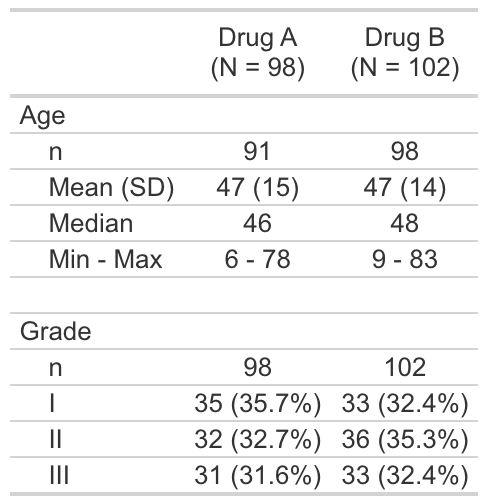
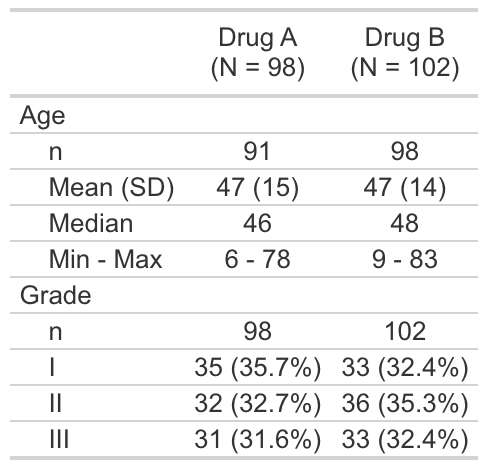
`tbl_listing()` Updates

Changed region(s): [[0.0, 0.0, 0.9836, 0.9872]]

diff --git a/tests/testthat/_snaps/tbl_listing.md b/tests/testthat/_snaps/tbl_listing.md
@@ -21,11 +21,11 @@
       w_duplicated_keys$table_body[seq(3), ]
     Output
       # A tibble: 3 x 4
-        trt        age marker stage
-        <chr>    <dbl>  <dbl> <fct>
-      1 "Drug B"     9  1.11  T2   
-      2 ""          49  0.157 T2   
-      3 "Drug A"    NA  2.07  T3   
+        trt      age marker stage
+        <chr>  <dbl>  <dbl> <fct>
+      1 Drug B     9  1.11  T2   
+      2 <NA>      49  0.157 T2   
+      3 Drug A    NA  2.07  T3   
 
 ---
 
@@ -39,7 +39,7 @@
       2 Drug B    49  0.157 T2   
       3 Drug A    NA  2.07  T3   
 
-# tbl_listing(blank_rows_by) works with standard values
+# tbl_listing(add_blanks_rows) works with standard values
 
     Code
       dplyr::slice_head(out$table_body, n = 5)
@@ -53,7 +53,7 @@
       4 <NA>      NA NA     <NA> 
       5 Drug A    NA  2.07  T3   
 
-# tbl_listing(row_split) works with standard values
+# tbl_listing(split_by_rows) works with standard values
 
     Code
       out[[2]]$table_body
@@ -63,7 +63,7 @@
         <chr>  <dbl>  <dbl> <fct>      <int>
       1 Drug A    NA   2.07 T3             3
 
-# tbl_listing(row_split, blank_rows_by) works with standard values
+# tbl_listing(split_by_rows, add_blank_rows) works with standard values
 
     Code
       dplyr::slice_head(out[[3]]$table_body, n = 4)
@@ -71,34 +71,35 @@
       # A tibble: 4 x 5
         trt      age marker stage row_number
         <chr>  <dbl>  <dbl> <fct>      <int>
-      1 Drug A    NA  2.07  T3             4
-      2 Drug A    78  0.175 T3             5
-      3 <NA>      NA NA     <NA>           6
-      4 Drug B    34  0.205 T3             7
+      1 Drug A    78  0.175 T3             4
+      2 Drug B    34  0.205 T3             5
+      3 Drug B    63  0.06  T3             6
+      4 <NA>      NA NA     <NA>          NA
 
-# tbl_listing(col_split) works with standard values
+# tbl_listing(split_by_columns) works with standard values
 
     Code
       dplyr::slice_head(out[[2]]$table_body, n = 4)
     Output
       # A tibble: 4 x 4
-        trt        age marker stage
-        <chr>    <dbl>  <dbl> <fct>
-      1 "Drug B"     9  1.11  T2   
-      2 ""          49  0.157 T2   
-      3 "Drug A"    NA  2.07  T3   
-      4 ""          78  0.175 T3   
+        trt      age marker stage
+        <chr>  <dbl>  <dbl> <fct>
+      1 Drug B     9  1.11  T2   
+      2 <NA>      49  0.157 T2   
+      3 Drug A    NA  2.07  T3   
+      4 <NA>      78  0.175 T3   
 
-# tbl_listing(row_split + col_split) works with standard values
+# tbl_listing(split_by_rows + split_by_columns) works with standard values
 
     Code
       out[[4]]$table_body
     Output
-      # A tibble: 4 x 5
+      # A tibble: 5 x 5
         trt      age marker stage row_number
         <chr>  <dbl>  <dbl> <fct>      <int>
-      1 <NA>      NA NA     <NA>           3
-      2 Drug A    NA  2.07  T3             4
-      3 Drug A    78  0.175 T3             5
-      4 <NA>      NA NA     <NA>           6
+      1 Drug A    NA  2.07  T3             3
+      2 Drug A    78  0.175 T3             4
+      3 <NA>      NA NA     <NA>          NA
+      4 Drug B    34  0.205 T3             5
+      5 Drug B    63  0.06  T3             6
 

diff --git a/tests/testthat/_snaps/add_blank_rows.md b/tests/testthat/_snaps/add_blank_rows.md
@@ -1,18 +1,18 @@
-# add_blank_row() error message
+# add_blank_rows() error message
 
     Code
-      add_blank_row(tbl_roche_summary(trial, by = trt, statistic = age ~ "{mean}",
+      add_blank_rows(tbl_roche_summary(trial, by = trt, statistic = age ~ "{mean}",
       include = c(age, grade), nonmissing = "no"), variables = age, row_numbers = c(1,
         1))
     Condition
-      Error in `add_blank_row()`:
+      Error in `add_blank_rows()`:
       ! One and only one of the following arguments may be specified: `variables`, `row_numbers`, and `variable_level`
 
-# add_blank_row() errors when no variable
+# add_blank_rows() errors when no variable
 
     Code
-      add_blank_row(gtsummary::as_gtsummary(gtsummary::trial[1:5, 1:2]), variables = everything())
+      add_blank_rows(gtsummary::as_gtsummary(gtsummary::trial[1:5, 1:2]), variables = everything())
     Condition
-      Error in `add_blank_row()`:
+      Error in `add_blank_rows()`:
       ! The `variables` argument cannot be specified when `x$table_body` does not have a column named "variable".
 

diff --git a/README.md b/README.md
@@ -34,8 +34,7 @@ theme_gtsummary_roche()
 #> Setting theme "Roche"
 
 tbl <- trial |>
-  tbl_roche_summary(by = trt, include = c(age, grade), nonmissing = "always") |>
-  add_blank_row()
+  tbl_roche_summary(by = trt, include = c(age, grade), nonmissing = "always")
 ```
 
 <img src="man/figures/README-tbl_print_simple-1.png" width="40%" />
